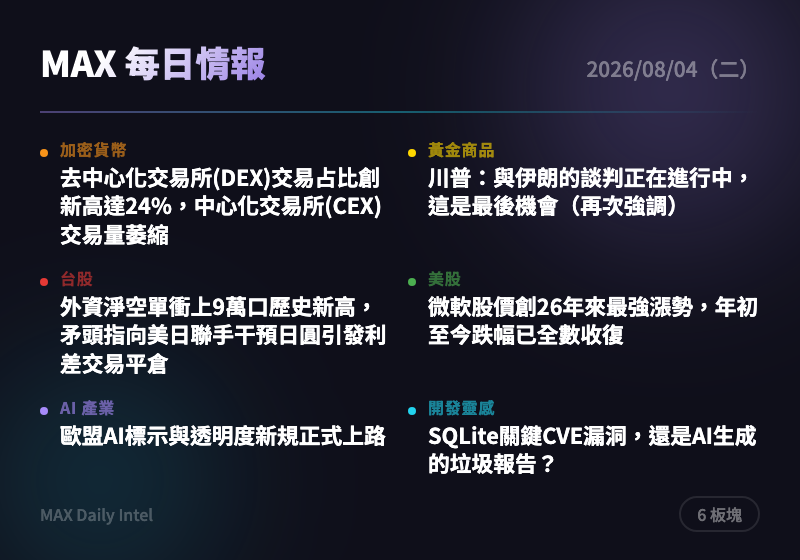
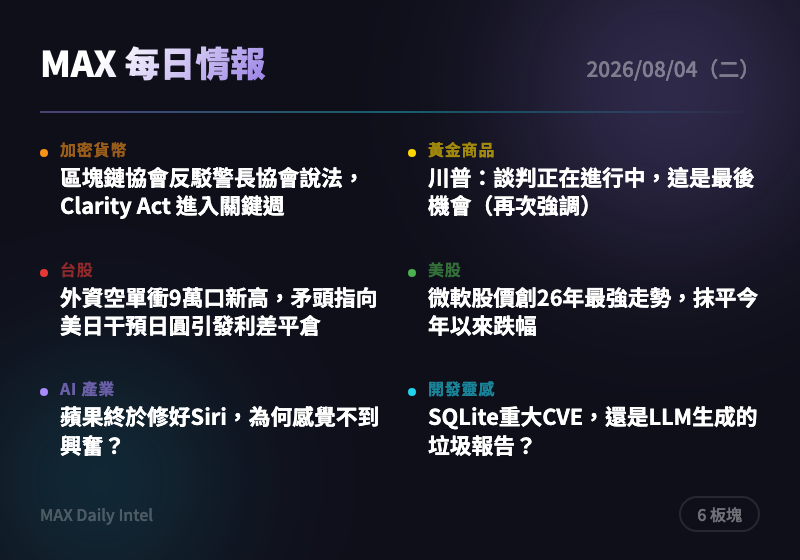
intel: 2026-08-04 每日情報自動生成

Changed region(s): [[0.0312, 0.2732, 0.9688, 0.85], [0.5, 0.4554, 0.9688, 0.6375], [0.5312, 0.2732, 0.9375, 0.3946]]

diff --git a/docs/2026-08-04.html b/docs/2026-08-04.html
@@ -318,15 +318,15 @@
     </div>
     <div class="news-card">
       <div class="source">The Block</div>
-      <h3><a href="https://www.theblock.co/post/410476/dexs-capture-record-spot-crypto-trading-as-cex-volumes-sink?utm_source=rss&utm_medium=rss" target="_blank" rel="noopener">去中心化交易所(DEX)交易占比創新高達24%，中心化交易所(CEX)交易量萎縮</a></h3>
-      <div class="summary">現貨交易所交易量正邁向12個月新低，僅670億美元，遠低於全年高點2.23兆美元的水準。這反映市場整體交易熱度冷卻，同時DEX份額逆勢創新高，顯示用戶對去中心化平台的信任與偏好持續提升。可留意此趨勢是否會影響CEX的長期商業模式與流動性。</div>
-      <div class="tags"><span class="tag">DEX</span><span class="tag">交易所</span><span class="tag">交易量</span></div>
+      <h3><a href="https://www.theblock.co/post/410507/blockchain-association-counters-sheriffs-associations-claims-pivotal-week-clarity-act?utm_source=rss&utm_medium=rss" target="_blank" rel="noopener">區塊鏈協會反駁警長協會說法，Clarity Act 進入關鍵週</a></h3>
+      <div class="summary">區塊鏈協會公開反駁全國警長協會對加密立法的指控，強調法案有助執法而非阻礙。此爭論發生在 Clarity Act 表決前的關鍵一週，遊說攻防激烈化顯示法案不確定性升高。若法案受阻，如 Bernstein 警告可能引發加密資產再跌一段，建議留意本週國會動向。</div>
+      <div class="tags"><span class="tag">加密貨幣</span><span class="tag">監管政策</span><span class="tag">Clarity Act</span><span class="tag">遊說</span></div>
     </div>
     <div class="news-card">
       <div class="source">CoinTelegraph</div>
-      <h3><a href="https://cointelegraph.com/news/bessent-top-crypto-adviser-tyler-williams-leaves-us-treasury-report?utm_source=rss_feed&utm_medium=rss&utm_campaign=rss_partner_inbound" target="_blank" rel="noopener">貝森特(Bessent)加密貨幣首席顧問 Tyler Williams 離開美國財政部</a></h3>
-      <div class="summary">川普政府數位資產政策的關鍵操盤手 Tyler Williams 在國會遲遲無法推進加密貨幣立法之際離開財政部。此人事變動可能削弱華府推動 Clarity Act 等監管框架的動能，增加政策不確定性。建議持續關注 Clarity Act 進度作為加密貨幣中期方向的重要指標。</div>
-      <div class="tags"><span class="tag">監管政策</span><span class="tag">美國財政部</span><span class="tag">Clarity Act</span></div>
+      <h3><a href="https://cointelegraph.com/news/bessent-top-crypto-adviser-tyler-williams-leaves-us-treasury-report?utm_source=rss_feed&utm_medium=rss&utm_campaign=rss_partner_inbound" target="_blank" rel="noopener">貝森特首席加密顧問 Tyler Williams 離開美國財政部</a></h3>
+      <div class="summary">川普政府數位資產政策的關鍵推手 Tyler Williams 於國會遲遲無法推動加密立法之際離開財政部。此人事變動可能拖慢 Clarity Act 等監管框架的推進節奏，增加政策不確定性。建議持續關注財政部後續人事佈局與 Clarity Act 進度，暫不因單一人事變動調整部位。</div>
+      <div class="tags"><span class="tag">加密貨幣</span><span class="tag">監管政策</span><span class="tag">美國財政部</span><span class="tag">人事異動</span></div>
     </div>
   </section>
 
@@ -338,15 +338,15 @@
     </div>
     <div class="news-card">
       <div class="source">ForexLive</div>
-      <h3><a href="https://investinglive.com/news/trump-talks-are-going-on-now-this-is-the-last-chance-again/" target="_blank" rel="noopener">川普：與伊朗的談判正在進行中，這是最後機會（再次強調）</a></h3>
-      <div class="summary">川普表示美伊就荷姆茲海峽（Strait of Hormuz）開放進行談判，波灣國家也要求最後一次談判機會，但去核化仍需時間、伊朗不得擁核。此類地緣政治言論反覆出現「最後機會」措辭，市場對其實質進展持保留態度，但仍是影響油價與避險資產（黃金）短期波動的關鍵變數。建議黃金部位可留意荷姆茲海峽相關進展作為避險情緒指標，勿過度追價單一言論。</div>
-      <div class="tags"><span class="tag">地緣政治</span><span class="tag">伊朗</span><span class="tag">石油</span></div>
+      <h3><a href="https://investinglive.com/news/trump-talks-are-going-on-now-this-is-the-last-chance-again/" target="_blank" rel="noopener">川普：談判正在進行中，這是最後機會（再次強調）</a></h3>
+      <div class="summary">川普表示與伊朗的荷姆茲海峽相關談判正在進行，稱衝突處理得宜且這是最後機會，波灣國家也要求最後一次機會。地緣政治緊張與談判進展直接牽動原油與黃金避險需求，若談判破局恐推升油金雙漲。建議追蹤荷姆茲海峽開放時程作為風險指標。</div>
+      <div class="tags"><span class="tag">地緣政治</span><span class="tag">原油</span><span class="tag">伊朗</span><span class="tag">川普</span></div>
     </div>
     <div class="news-card">
       <div class="source">ForexLive</div>
-      <h3><a href="https://investinglive.com/news/atlanta-fed-gdpnow-growth-estimate-rises-to-6-2-from-5-previously/" target="_blank" rel="noopener">亞特蘭大聯準銀行GDPNow成長預估上修至6.2%，前值5%</a></h3>
-      <div class="summary">亞特蘭大聯準銀行將第三季實質GDP年化成長預估從5.0%大幅上修至6.2%，顯示美國經濟動能可能優於預期。強勁的成長數據可能降低聯準會近期降息的急迫性，甚至增添升息討論空間，對美元及黃金走勢構成變數。建議留意後續通膨數據是否同步升溫，以判斷聯準會政策路徑。</div>
-      <div class="tags"><span class="tag">央行</span><span class="tag">GDP</span><span class="tag">美國經濟</span></div>
+      <h3><a href="https://investinglive.com/news/atlanta-fed-gdpnow-growth-estimate-rises-to-6-2-from-5-previously/" target="_blank" rel="noopener">亞特蘭大聯儲 GDPNow 估值大幅上修至 6.2%</a></h3>
+      <div class="summary">亞特蘭大聯儲將第三季 GDP 成長估值從 5.0% 大幅上修至 6.2%，顯示美國經濟動能強於預期。強勁成長數據可能降低聯準會降息急迫性，對美元偏多、對黃金短線承壓。建議留意後續數據是否持續驗證此高成長估值，避免單一模型數字過度解讀。</div>
+      <div class="tags"><span class="tag">美國經濟</span><span class="tag">GDP</span><span class="tag">聯準會</span><span class="tag">總體經濟</span></div>
     </div>
   </section>
 
@@ -358,15 +358,15 @@
     </div>
     <div class="news-card">
       <div class="source">經濟日報</div>
-      <h3><a href="https://money.udn.com/money/story/5607/9668706" target="_blank" rel="noopener">外資淨空單衝上9萬口歷史新高，矛頭指向美日聯手干預日圓引發利差交易平倉</a></h3>
-      <div class="summary">外資昨日雖在台股現貨市場加碼賣超，台指期淨空單卻暴增逾7,500口，未平倉來到90,038口歷史新高。市場憂心此舉與美日聯手干預日圓、迫使利差交易(carry trade)平倉有關，可能加大台股短線波動風險。建議留意日圓匯率與外資期貨部位變化，作為台股短期修正風險的先行指標。</div>
-      <div class="tags"><span class="tag">外資</span><span class="tag">台指期</span><span class="tag">日圓</span></div>
+      <h3><a href="https://money.udn.com/money/story/5607/9668706" target="_blank" rel="noopener">外資空單衝9萬口新高，矛頭指向美日干預日圓引發利差平倉</a></h3>
+      <div class="summary">外資昨日在台股上漲逾200點之際同步賣超現貨，並在台指期大增逾7,500口空單，未平倉來到90,038口歷史新高。市場憂心此與美日聯手干預日圓、引發利差交易平倉有關，恐是外資轉守的先兆訊號。建議留意外資期現貨動向是否持續背離，作為短線風險控管參考。</div>
+      <div class="tags"><span class="tag">台股</span><span class="tag">外資</span><span class="tag">日圓</span><span class="tag">期貨</span></div>
     </div>
     <div class="news-card">
       <div class="source">經濟日報</div>
-      <h3><a href="https://money.udn.com/money/story/5607/9668715" target="_blank" rel="noopener">聯發科法說釋利多，高盛喊目標價7,000元領軍外資調升</a></h3>
-      <div class="summary">聯發科上週法說會釋出正向訊息後，高盛、大摩、花旗、美銀、瑞銀等外資圈紛紛給予「買進」或「優於大盤」評級並調升目標價，其中高盛7,000元最為突出。外資態度一致轉向樂觀，顯示市場對聯發科在AI晶片與高速運算需求下的成長前景信心增強。可留意聯發科後續股價是否隨外資調升目標價同步走升。</div>
-      <div class="tags"><span class="tag">半導體</span><span class="tag">聯發科</span><span class="tag">外資評等</span></div>
+      <h3><a href="https://money.udn.com/money/story/5607/9668715" target="_blank" rel="noopener">聯發科法說釋利多，高盛喊目標價7,000元最激進</a></h3>
+      <div class="summary">聯發科上週五法說釋出正向訊息，高盛、大摩、花旗、美銀、瑞銀等外資皆給予買進評等並上調目標價，其中高盛7,000元最為突出。外資圈一致看多反映市場對聯發科AI相關成長動能信心增強。可留意後續財報表現是否驗證外資樂觀預期。</div>
+      <div class="tags"><span class="tag">台股</span><span class="tag">半導體</span><span class="tag">聯發科</span><span class="tag">外資評等</span></div>
     </div>
   </section>
 
@@ -378,15 +378,15 @@
     </div>
     <div class="news-card">
       <div class="source">MarketWatch</div>
-      <h3><a href="https://www.marketwatch.com/story/microsofts-stock-is-on-a-run-not-seen-in-26-years-erasing-its-year-to-date-losses-d9827b6c?mod=mw_rss_topstories" target="_blank" rel="noopener">微軟股價創26年來最強漲勢，年初至今跌幅已全數收復</a></h3>
-      <div class="summary">微軟股價出現26年來罕見的強勁走勢，成功抹平今年以來的跌幅。分析師認為此波漲勢「後勁十足」，主因是其龐大的資本支出（AI基礎建設投資）開始展現實質回報。此案例顯示市場正持續獎勵在AI基建上大手筆投資且能證明變現能力的科技巨頭，可作為觀察其他大型科技股資本支出效益的參考指標。</div>
-      <div class="tags"><span class="tag">科技股</span><span class="tag">微軟</span><span class="tag">AI</span></div>
+      <h3><a href="https://www.marketwatch.com/story/microsofts-stock-is-on-a-run-not-seen-in-26-years-erasing-its-year-to-date-losses-d9827b6c?mod=mw_rss_topstories" target="_blank" rel="noopener">微軟股價創26年最強走勢，抹平今年以來跌幅</a></h3>
+      <div class="summary">微軟股價出現26年來罕見漲勢，一舉抹平今年以來的累計跌幅。分析認為此波漲勢「有支撐力」，因其龐大資本支出已開始展現獲利回報，顯示AI基礎建設投資正逐步兌現。可作為觀察大型科技股AI資本支出效益的指標案例。</div>
+      <div class="tags"><span class="tag">美股</span><span class="tag">微軟</span><span class="tag">AI</span><span class="tag">科技股</span></div>
     </div>
     <div class="news-card">
       <div class="source">MarketWatch</div>
-      <h3><a href="https://www.marketwatch.com/story/palantirs-stock-gains-as-ai-drives-turbocharged-growth-e006b70a?mod=mw_rss_topstories" target="_blank" rel="noopener">Palantir財報後股價上漲，AI驅動業績強勁成長</a></h3>
-      <div class="summary">Palantir公布財報後股價走高，執行長Alex Karp指出企業客戶正尋求在AI模型與資料上有更高自主性，帶動公司業績出現「渦輪增壓式」成長。這反映企業級AI應用需求持續擴大，Palantir作為資料分析與AI整合平台的定位持續受市場肯定。可留意其企業客戶簽約數與合約規模是否延續此成長動能。</div>
-      <div class="tags"><span class="tag">AI</span><span class="tag">Palantir</span><span class="tag">財報</span></div>
+      <h3><a href="https://www.marketwatch.com/story/palantirs-stock-gains-as-ai-drives-turbocharged-growth-e006b70a?mod=mw_rss_topstories" target="_blank" rel="noopener">Palantir財報後股價上漲，AI驅動營收強勁成長</a></h3>
+      <div class="summary">Palantir公布財報後股價上漲，AI業務帶動營收出現爆發性成長。執行長Alex Karp表示企業正轉向Palantir以獲得對AI模型與數據更高的自主掌控權，反映企業級AI應用需求持續擴張。可留意其客戶擴張速度是否延續此成長動能。</div>
+      <div class="tags"><span class="tag">美股</span><span class="tag">AI</span><span class="tag">Palantir</span><span class="tag">財報</span></div>
     </div>
   </section>
 
@@ -397,16 +397,16 @@
       <span class="badge">2 則</span>
     </div>
     <div class="news-card">
-      <div class="source">The Verge AI</div>
-      <h3><a href="https://www.theverge.com/ai-artificial-intelligence/974571/eu-ai-act-transparency-labels-rules-deepfakes" target="_blank" rel="noopener">歐盟AI標示與透明度新規正式上路</a></h3>
-      <div class="summary">歐盟依據其具指標意義的AI法案(AI Act)推出新規，要求企業在用戶與AI互動時須揭露，並標示AI生成的深偽(deepfake)內容，新規已於8月2日正式生效。此舉為全球AI監管立法的重要進展，可能促使其他地區跟進類似透明度要求，增加AI企業的合規成本。建議關注在歐洲營運的AI相關企業是否已完成合規調整。</div>
-      <div class="tags"><span class="tag">AI監管</span><span class="tag">歐盟</span><span class="tag">深偽技術</span></div>
+      <div class="source">TechCrunch AI</div>
+      <h3><a href="https://techcrunch.com/2026/08/03/apple-finally-fixed-siri-so-why-does-it-feel-anticlimactic/" target="_blank" rel="noopener">蘋果終於修好Siri，為何感覺不到興奮？</a></h3>
+      <div class="summary">蘋果期待已久的AI大改版終於讓Siri成為原本該有的智慧助理，但此次升級恰逢市場對「能幹的AI助理」已不再視為革命性突破的時刻。這反映AI助理賽道競爭激烈、消費者期待值持續墊高的產業現況。對蘋果而言，重點將轉向如何用Siri差異化生態系體驗而非單純技術追趕。</div>
+      <div class="tags"><span class="tag">AI</span><span class="tag">蘋果</span><span class="tag">Siri</span><span class="tag">產品</span></div>
     </div>
     <div class="news-card">
       <div class="source">The Verge AI</div>
-      <h3><a href="https://www.theverge.com/ai-artificial-intelligence/974342/alibaba-qwen-max-open-weight-ai" target="_blank" rel="noopener">中國阿里巴巴再度出招挑戰美國AI霸權，發布Qwen3.8-Max模型</a></h3>
-      <div class="summary">阿里巴巴發布號稱其史上最強大的AI模型Qwen3.8-Max，宣稱效能可與Anthropic、OpenAI等美國頂尖實驗室及國內對手Moonshot AI的Kimi K3匹敵，並廣泛開放給用戶使用。此舉顯示中國科技巨頭在前沿AI模型競賽中持續縮小與美國的差距，全球AI競爭格局加劇。建議關注此模型的實際基準測試表現與後續採用率，評估其對美系AI廠商的實質競爭壓力。</div>
-      <div class="tags"><span class="tag">AI</span><span class="tag">阿里巴巴</span><span class="tag">中美科技競爭</span></div>
+      <h3><a href="https://www.theverge.com/ai-artificial-intelligence/974571/eu-ai-act-transparency-labels-rules-deepfakes" target="_blank" rel="noopener">歐盟AI標示與透明度新規正式生效</a></h3>
+      <div class="summary">歐盟AI法案下的透明度義務已於8月2日起生效，要求企業揭露使用者是否正在與AI互動，並標示AI生成內容與深偽影像。此舉是全球AI監管進程的重要里程碑，可能促使其他地區跟進類似規範。企業若涉及歐盟市場業務，應及早檢視聊天機器人與生成內容的合規標示。</div>
+      <div class="tags"><span class="tag">AI</span><span class="tag">監管政策</span><span class="tag">歐盟</span><span class="tag">深偽</span></div>
     </div>
   </section>
 
@@ -418,15 +418,15 @@
     </div>
     <div class="news-card">
       <div class="source">Hacker News Best</div>
-      <h3><a href="https://research.jfrog.com/post/sqlite-critical-cves-or-llm-slops/" target="_blank" rel="noopener">SQLite關鍵CVE漏洞，還是AI生成的垃圾報告？</a></h3>
-      <div class="summary">文章質疑近期針對SQLite提報的「關鍵CVE漏洞」，究竟是真實安全問題，還是AI生成內容(LLM Slop)造成的誤報或品質低落的漏洞報告。此議題在Hacker News獲得690分高關注度與341則留言，反映開發社群對AI協助的安全研究品質日益擔憂。建議資安與開源維護團隊建立更嚴謹的AI輔助漏洞報告審核機制，避免浪費資源處理低品質提報。</div>
-      <div class="tags"><span class="tag">資安</span><span class="tag">SQLite</span><span class="tag">AI</span></div>
+      <h3><a href="https://research.jfrog.com/post/sqlite-critical-cves-or-llm-slops/" target="_blank" rel="noopener">SQLite重大CVE，還是LLM生成的垃圾報告？</a></h3>
+      <div class="summary">JFrog研究團隊質疑近期針對SQLite的「重大CVE」漏洞報告，可能是LLM生成的低品質內容而非真實安全漏洞。此事件引發開發社群對AI輔助安全研究品質與CVE審核機制的廣泛討論，該文章獲690個讚、341則留言，熱度極高。建議安全團隊在採信AI生成的漏洞報告前，務必人工驗證其真實性。</div>
+      <div class="tags"><span class="tag">開發工具</span><span class="tag">資安</span><span class="tag">LLM</span><span class="tag">SQLite</span></div>
     </div>
     <div class="news-card">
-      <div class="source">Hacker News Best</div>
-      <h3><a href="https://ankursethi.com/blog/prevent-cognitive-debt-by-manually-retyping-llm-generated-code/" target="_blank" rel="noopener">透過手動重打LLM生成的程式碼，避免認知負債</a></h3>
-      <div class="summary">作者主張開發者應手動重新輸入AI生成的程式碼，而非直接複製貼上，以避免對程式碼缺乏深入理解所造成的「認知負債」。此觀點在Hacker News獲得351分高關注，反映開發者社群對過度依賴AI編碼工具、喪失程式碼掌握度的隱憂日益升高。建議團隊在導入AI編碼工具時，同步建立程式碼理解與審查的實務規範，避免技術債累積。</div>
-      <div class="tags"><span class="tag">AI編碼</span><span class="tag">開發者文化</span><span class="tag">軟體工程</span></div>
+      <div class="source">Product Hunt</div>
+      <h3><a href="https://www.producthunt.com/products/qwen3" target="_blank" rel="noopener">Qwen3.8-Max發布，阿里巴巴推出最強編碼協作模型</a></h3>
+      <div class="summary">阿里巴巴發布Qwen3.8-Max，號稱是其迄今最強大的AI模型，主打程式編碼與協同工作能力，效能可與Anthropic、OpenAI等美國前沿實驗室及國內對手Kimi K3匹敵。此舉顯示中國AI廠商持續在開源與商用模型上逼近國際頂尖水準，加劇全球AI模型競爭格局。開發者可關注其在實際編碼任務上的表現評測。</div>
+      <div class="tags"><span class="tag">AI</span><span class="tag">開發工具</span><span class="tag">阿里巴巴</span><span class="tag">大型語言模型</span></div>
     </div>
   </section>
 

diff --git a/docs/cards/2026-08-04-card.html b/docs/cards/2026-08-04-card.html
@@ -23,11 +23,11 @@ body{width:400px;height:280px;font-family:'Noto Sans TC',-apple-system,sans-seri
 <div class="content">
 <div class="top-row"><span class="title">MAX 每日情報</span><span class="date">2026/08/04（二）</span></div>
 <div class="divider"></div>
-<div class="grid"><div class="cell"><div class="dot" style="background:#f7931a"></div><div><div class="label" style="color:#f7931a">加密貨幣</div><div class="headline">去中心化交易所(DEX)交易占比創新高達24%，中心化交易所(CEX)交易量萎縮</div></div></div>
-<div class="cell"><div class="dot" style="background:#ffd700"></div><div><div class="label" style="color:#ffd700">黃金商品</div><div class="headline">川普：與伊朗的談判正在進行中，這是最後機會（再次強調）</div></div></div>
-<div class="cell"><div class="dot" style="background:#e53935"></div><div><div class="label" style="color:#e53935">台股</div><div class="headline">外資淨空單衝上9萬口歷史新高，矛頭指向美日聯手干預日圓引發利差交易平倉</div></div></div>
-<div class="cell"><div class="dot" style="background:#4caf50"></div><div><div class="label" style="color:#4caf50">美股</div><div class="headline">微軟股價創26年來最強漲勢，年初至今跌幅已全數收復</div></div></div>
-<div class="cell"><div class="dot" style="background:#a78bfa"></div><div><div class="label" style="color:#a78bfa">AI 產業</div><div class="headline">歐盟AI標示與透明度新規正式上路</div></div></div>
-<div class="cell"><div class="dot" style="background:#22d3ee"></div><div><div class="label" style="color:#22d3ee">開發靈感</div><div class="headline">SQLite關鍵CVE漏洞，還是AI生成的垃圾報告？</div></div></div></div>
+<div class="grid"><div class="cell"><div class="dot" style="background:#f7931a"></div><div><div class="label" style="color:#f7931a">加密貨幣</div><div class="headline">區塊鏈協會反駁警長協會說法，Clarity Act 進入關鍵週</div></div></div>
+<div class="cell"><div class="dot" style="background:#ffd700"></div><div><div class="label" style="color:#ffd700">黃金商品</div><div class="headline">川普：談判正在進行中，這是最後機會（再次強調）</div></div></div>
+<div class="cell"><div class="dot" style="background:#e53935"></div><div><div class="label" style="color:#e53935">台股</div><div class="headline">外資空單衝9萬口新高，矛頭指向美日干預日圓引發利差平倉</div></div></div>
+<div class="cell"><div class="dot" style="background:#4caf50"></div><div><div class="label" style="color:#4caf50">美股</div><div class="headline">微軟股價創26年最強走勢，抹平今年以來跌幅</div></div></div>
+<div class="cell"><div class="dot" style="background:#a78bfa"></div><div><div class="label" style="color:#a78bfa">AI 產業</div><div class="headline">蘋果終於修好Siri，為何感覺不到興奮？</div></div></div>
+<div class="cell"><div class="dot" style="background:#22d3ee"></div><div><div class="label" style="color:#22d3ee">開發靈感</div><div class="headline">SQLite重大CVE，還是LLM生成的垃圾報告？</div></div></div></div>
 <div class="bottom-row"><span class="url">MAX Daily Intel</span><span class="badge">6 板塊</span></div>
 </div></body></html>
